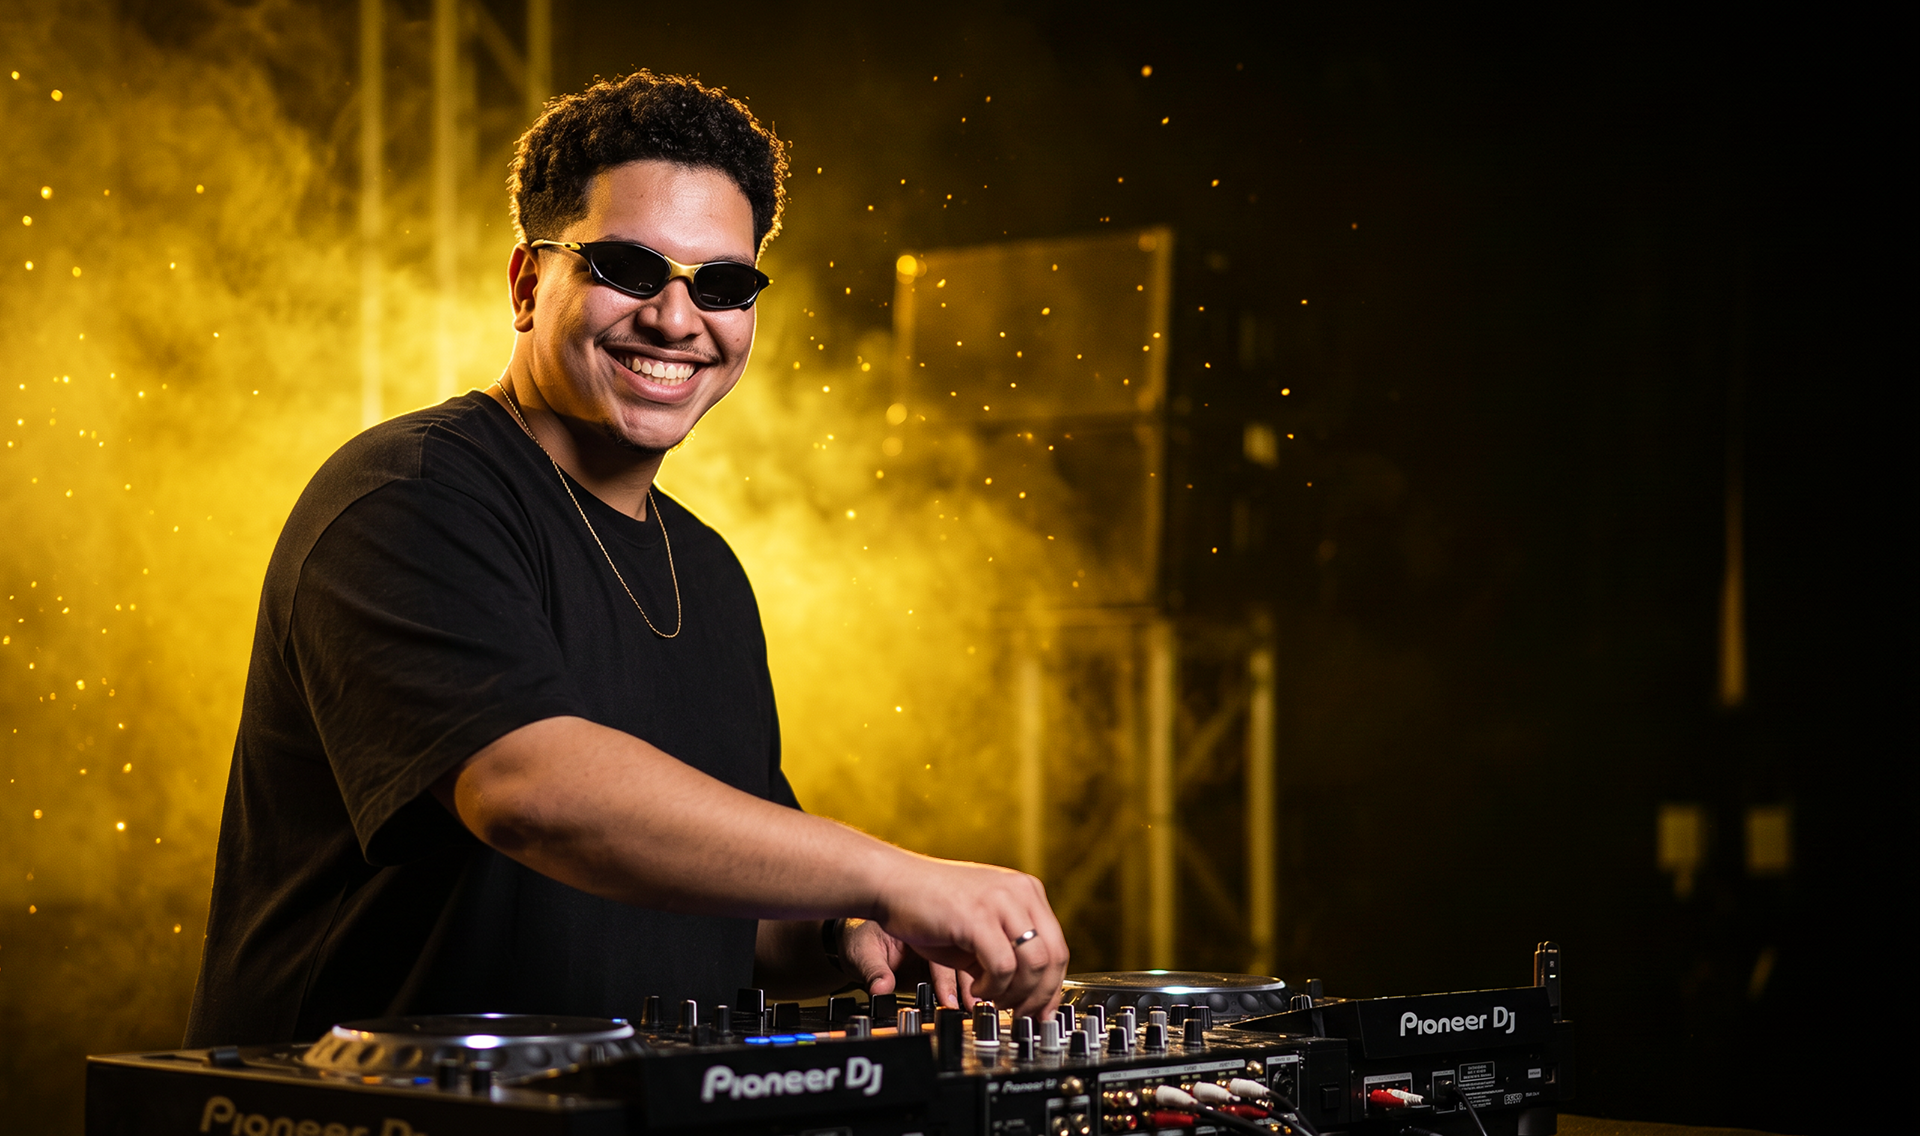
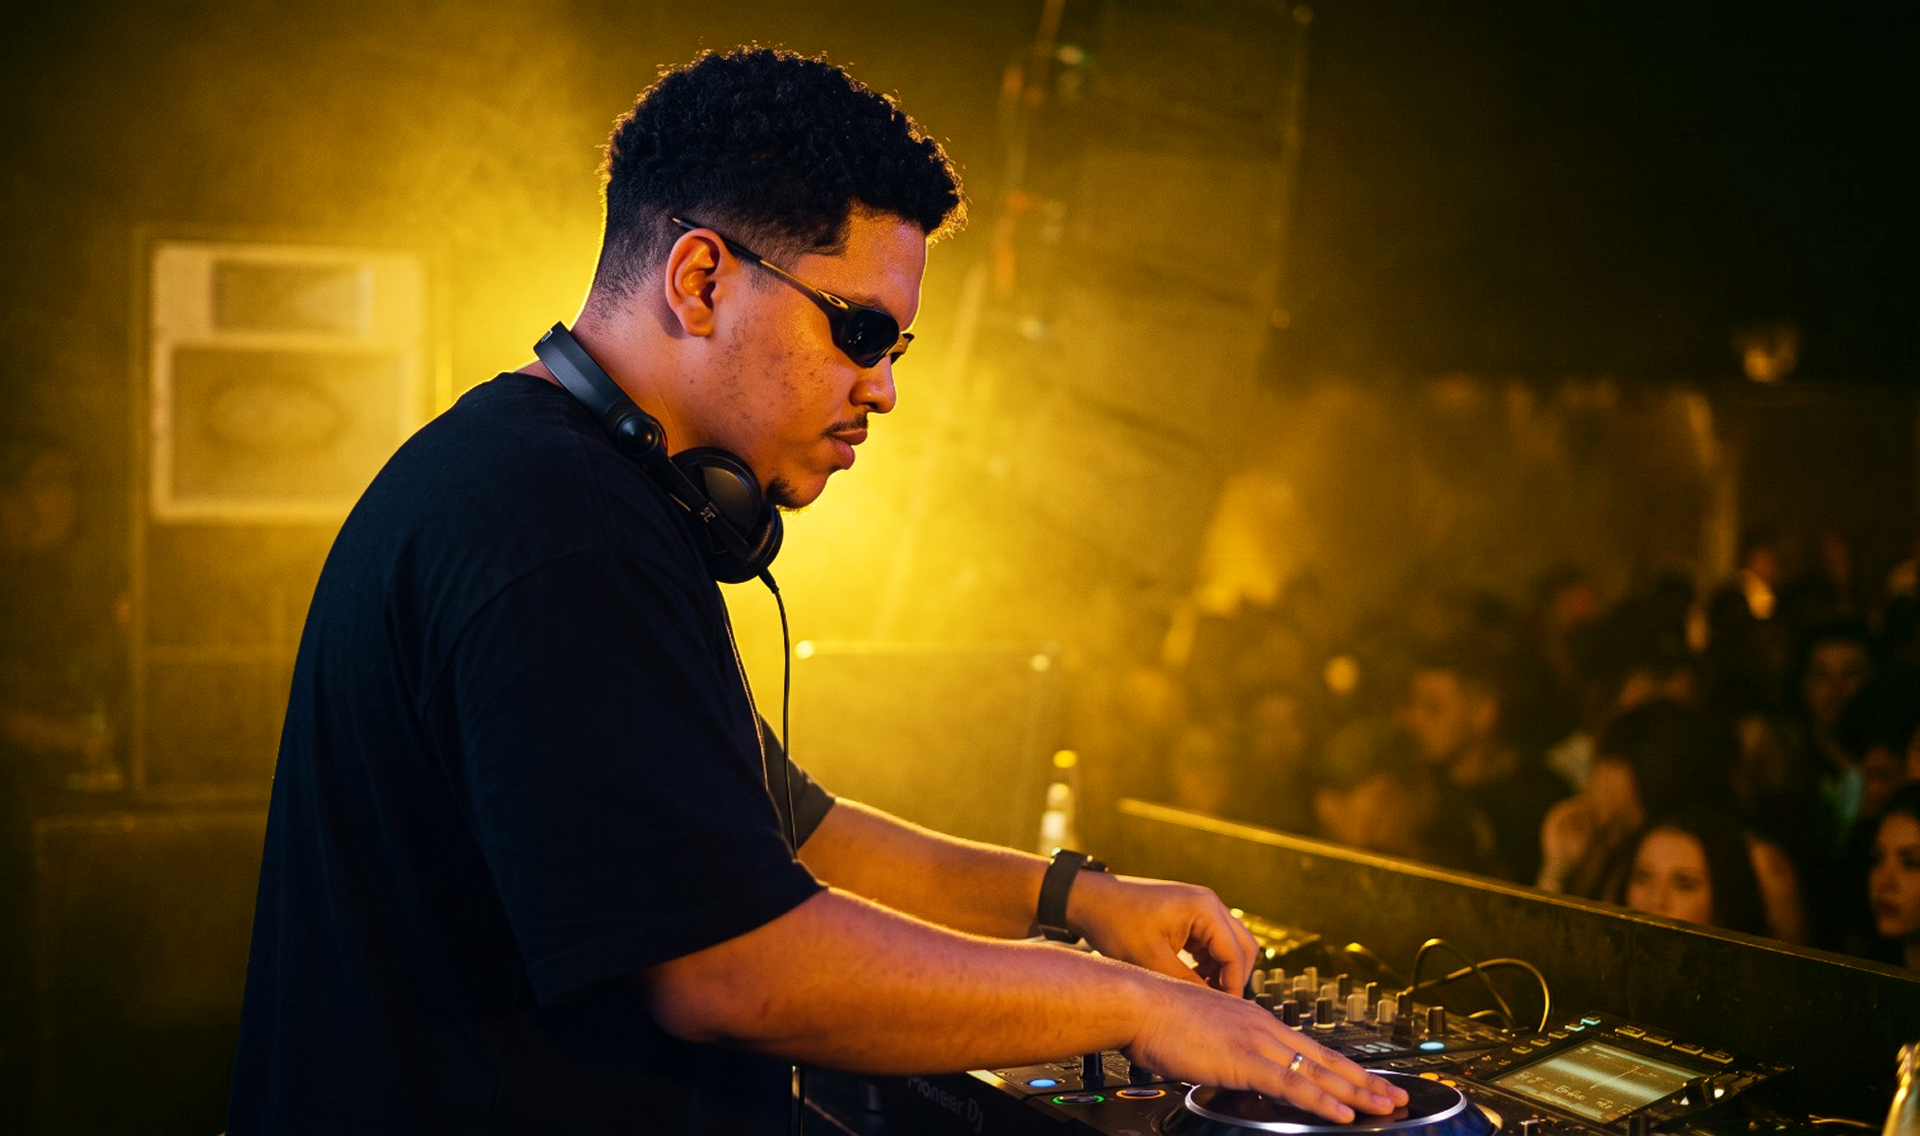
Atualiza imagem de fundo do hero (mobile e desktop)
Substitui as fotos do hero por novas fotos fornecidas, e ajusta o
aspect-ratio do recorte mobile para casar com as novas dimensões.

diff --git a/css/style.css b/css/style.css
@@ -1257,7 +1257,7 @@ body.no-scroll {
     position: relative;
     inset: auto;
     width: 100%;
-    aspect-ratio: 1080 / 1534;
+    aspect-ratio: 1080 / 1598;
     background-image: url("../assets/bg-mobile.png");
     background-size: 100% 100%;
     background-position: center;
